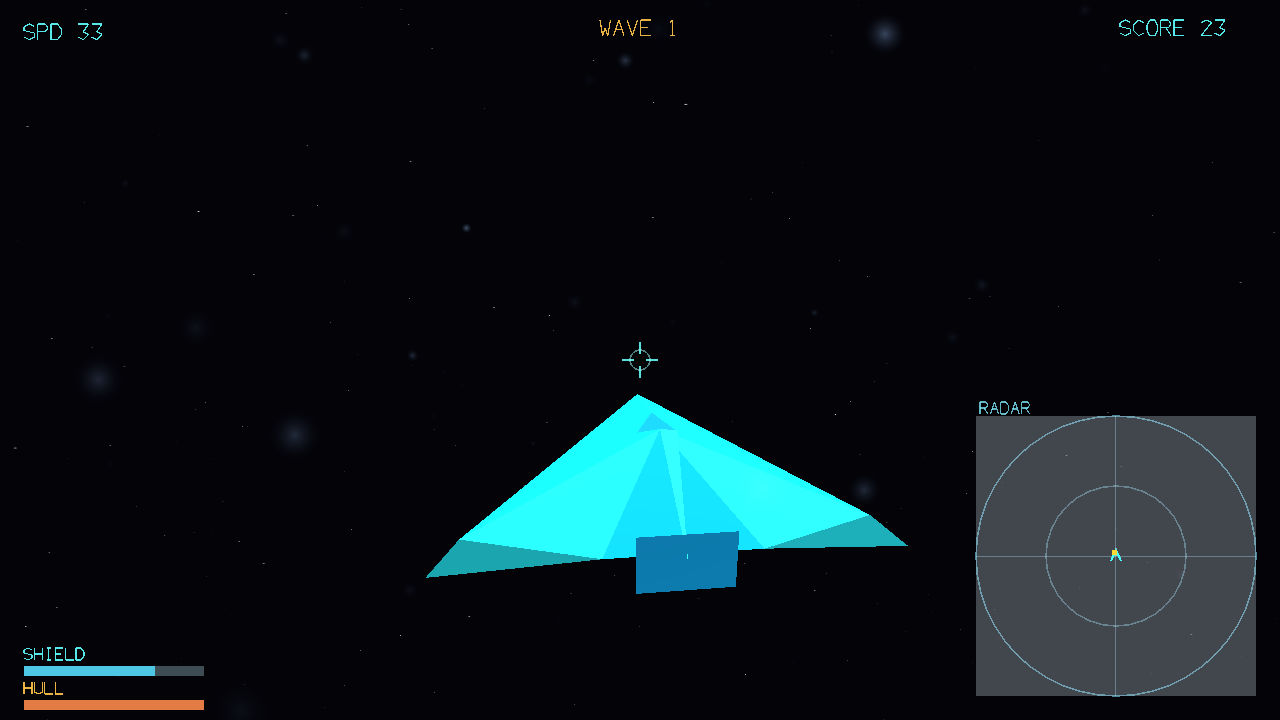
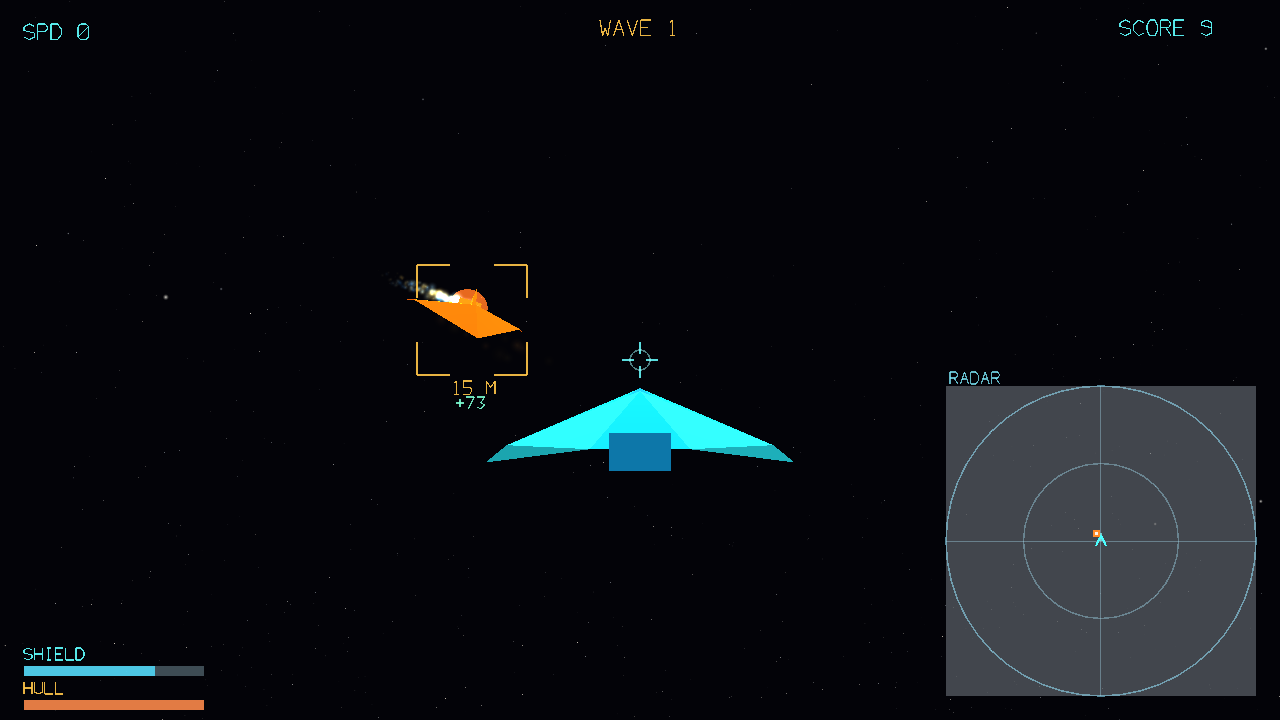
Polish flight feel, radar, explosions, and title screenshot
Snappier mouse look with release damping, brighter enemies, juicier
explosions, larger radar blips, laser muzzle sparks; refresh screenshots.

diff --git a/src/game.cpp b/src/game.cpp
@@ -119,7 +119,7 @@ void Game::spawnWave(int w) {
         Enemy e;
         e.ship.isPlayer = false;
         e.ship.id = 100 + i + w * 10;
-        e.ship.color = glm::vec3(1.f, 0.4f + rng.uniform(0.f, 0.2f), 0.12f);
+        e.ship.color = glm::vec3(1.f, 0.55f + rng.uniform(0.f, 0.25f), 0.18f);
         e.ship.cfg.thrustAccel = 42.f + w * 1.5f;
         e.ship.cfg.maxSpeed = 72.f + w * 2.f;
         e.ship.cfg.linearDrag = 0.4f;
@@ -216,11 +216,12 @@ void Game::handleInput(float dt) {
         float dy = (float)(my - lastMouseY);
         lastMouseX = mx; lastMouseY = my;
         float sens = 0.0028f;
-        player.yawInput = clampf(-dx * sens / (dt + 1e-4f) / player.cfg.pitchYawRate, -1.f, 1.f);
-        player.pitchInput = clampf(-dy * sens / (dt + 1e-4f) / player.cfg.pitchYawRate, -1.f, 1.f);
-        // Also apply as direct angular impulse for snappy feel
-        player.angVel.y += -dx * sens * 25.f * dt * 60.f;
-        player.angVel.x += -dy * sens * 25.f * dt * 60.f;
+        // Map mouse delta to desired angular rates (orientation only — not velocity)
+        float rateScale = 1.15f;
+        player.yawInput = clampf(-dx * sens * rateScale / (dt + 1e-4f) / player.cfg.pitchYawRate, -1.f, 1.f);
+        player.pitchInput = clampf(-dy * sens * rateScale / (dt + 1e-4f) / player.cfg.pitchYawRate, -1.f, 1.f);
+        player.angVel.y += -dx * sens * 12.f;
+        player.angVel.x += -dy * sens * 12.f;
     }
 
     if (glfwGetKey(window, GLFW_KEY_Q) == GLFW_PRESS) player.rollInput -= 1.f;
@@ -234,8 +235,12 @@ void Game::handleInput(float dt) {
     bool fire = glfwGetKey(window, GLFW_KEY_SPACE) == GLFW_PRESS
              || glfwGetMouseButton(window, GLFW_MOUSE_BUTTON_LEFT) == GLFW_PRESS;
     if (state == GameState::Playing && fire) {
-        if (playerWeapon.tryFire(player, lasers))
+        if (playerWeapon.tryFire(player, lasers)) {
             audio.playLaser(true);
+            for (int i = 0; i < 2; i++)
+                particles.emitBurst(player.position + player.forward() * 3.f,
+                    playerWeapon.color, 3, 8.f, 0.12f, rng);
+        }
     }
     (void)dt;
 }
@@ -384,7 +389,7 @@ void Game::update(float dt) {
     debris.update(dt);
     for (auto& sp : explosionSpheres) sp.second += dt;
     explosionSpheres.erase(std::remove_if(explosionSpheres.begin(), explosionSpheres.end(),
-        [](const auto& p){ return p.second > 0.6f; }), explosionSpheres.end());
+        [](const auto& p){ return p.second > 0.75f; }), explosionSpheres.end());
     audio.update(dt);
 }
 
@@ -472,25 +477,26 @@ void Game::run() {
         render();
         glfwSwapBuffers(window);
 
-        if (autoScreenshotFrames > 0) {
-            autoScreenshotFrames--;
-            if (autoScreenshotFrames == 0) {
-                // transition to playing for a nicer shot
-                if (state == GameState::Title) startGame();
+        static bool shotTitle = false, shotPlay = false, shotCombat = false;
+        if (std::getenv("VD_SCREENSHOT")) {
+            if (!shotTitle && time > 1.0f && state == GameState::Title) {
+                captureScreenshot("/workspace/space-game/screenshots/title.png");
+                shotTitle = true;
+                startGame();
+            }
+            if (shotTitle && !shotPlay && time > 3.0f) {
+                captureScreenshot("/workspace/space-game/screenshots/gameplay.png");
+                shotPlay = true;
+            }
+            if (shotPlay && !shotCombat && time > 5.5f) {
+                captureScreenshot("/workspace/space-game/screenshots/combat.png");
+                shotCombat = true;
+                glfwSetWindowShouldClose(window, 1);
             }
         }
-        if (screenshotQueued || (std::getenv("VD_SCREENSHOT") && time > 2.5f && time < 2.6f)) {
-            captureScreenshot("/workspace/space-game/screenshots/gameplay.png");
+        if (screenshotQueued) {
+            captureScreenshot("/workspace/space-game/screenshots/manual.png");
             screenshotQueued = false;
-            if (std::getenv("VD_SCREENSHOT")) {
-                // second shot a bit later handled below
-            }
-        }
-        static bool shot2 = false;
-        if (std::getenv("VD_SCREENSHOT") && time > 5.0f && !shot2) {
-            captureScreenshot("/workspace/space-game/screenshots/combat.png");
-            shot2 = true;
-            glfwSetWindowShouldClose(window, 1);
         }
     }
 }

diff --git a/src/hud.cpp b/src/hud.cpp
@@ -194,7 +194,7 @@ void Hud::drawTargetBox(const HudInfo& info, const ChaseCamera& cam, int fbW, in
 }
 
 void Hud::drawRadar(const HudInfo& info, int fbW, int fbH) {
-    float size = std::min(140.f, fbW * 0.14f);
+    float size = std::min(155.f, fbW * 0.155f);
     float cx = fbW - size - 24.f;
     float cy = fbH - size - 24.f;
     // Background
@@ -235,7 +235,8 @@ void Hud::drawRadar(const HudInfo& info, int fbW, int fbH) {
         glm::vec4 col = elev > 0.15f ? glm::vec4(1.f,0.85f,0.2f,1.f)
                       : elev < -0.15f ? glm::vec4(1.f,0.35f,0.15f,1.f)
                       : glm::vec4(1.f,0.55f,0.15f,1.f);
-        drawRect(px-2.5f, py-2.5f, 5.f, 5.f, col, fbW, fbH);
+        drawRect(px-3.5f, py-3.5f, 7.f, 7.f, col, fbW, fbH);
+        drawRect(px-1.5f, py-1.5f, 3.f, 3.f, glm::vec4(1,1,1,0.9f), fbW, fbH);
     }
     drawText("RADAR", cx - size + 4, cy - size - 14, 2.f, glm::vec4(0.3f,0.9f,1.f,0.7f), fbW, fbH);
 }

diff --git a/src/ship.cpp b/src/ship.cpp
@@ -28,8 +28,10 @@ void Ship::update(float dt) {
     );
     glm::vec3 angErr = desiredAng - angVel;
     angVel += angErr * std::min(1.f, cfg.angAccel * dt);
-    // Rotational damping toward desired (arcade feel)
-    angVel *= std::exp(-cfg.angDamp * 0.15f * dt);
+    // Soft damp residual spin when stick released
+    float stick = std::fabs(pitchInput) + std::fabs(yawInput) + std::fabs(rollInput);
+    float damp = (stick < 0.05f) ? cfg.angDamp : cfg.angDamp * 0.25f;
+    angVel *= std::exp(-damp * dt);
     float angSpd = glm::length(angVel);
     if (angSpd > cfg.maxAngSpeed)
         angVel *= cfg.maxAngSpeed / angSpd;

diff --git a/src/renderer.cpp b/src/renderer.cpp
@@ -290,8 +290,8 @@ void Renderer::drawExplosionSpheres(const std::vector<std::pair<glm::vec3, float
     glBlendFunc(GL_SRC_ALPHA, GL_ONE);
     for (auto& sp : spheres) {
         float age = sp.second;
-        float radius = 1.f + age * 18.f;
-        float alpha = std::max(0.f, 1.f - age / 0.55f);
+        float radius = 1.2f + age * 24.f;
+        float alpha = std::max(0.f, 1.f - age / 0.7f);
         glm::mat4 model = glm::translate(glm::mat4(1), sp.first)
                         * glm::scale(glm::mat4(1), glm::vec3(radius));
         glm::mat4 mvp = proj * view * model;

diff --git a/DEVELOPMENT_REPORT.md b/DEVELOPMENT_REPORT.md
@@ -44,6 +44,11 @@ Replaced the prior Godot prototype with a from-scratch C++17 / OpenGL 3.3 arcade
 3. AI: longer fire holds, stricter aim gate, farther wave-1 spawn, spawn grace so openings aren’t unfair
 4. Smoke-tested under `xvfb` + Mesa software GL; screenshots in `screenshots/`
 
+## Polish passes (post-first-push)
+
+2. Mouse look less twitchy; angular damp when stick released; laser muzzle sparks
+3. Larger explosion flash; brighter enemies; bigger radar blips; title screenshot path
+
 ## Known limitations
 
 - No gamepad; keyboard+mouse only
